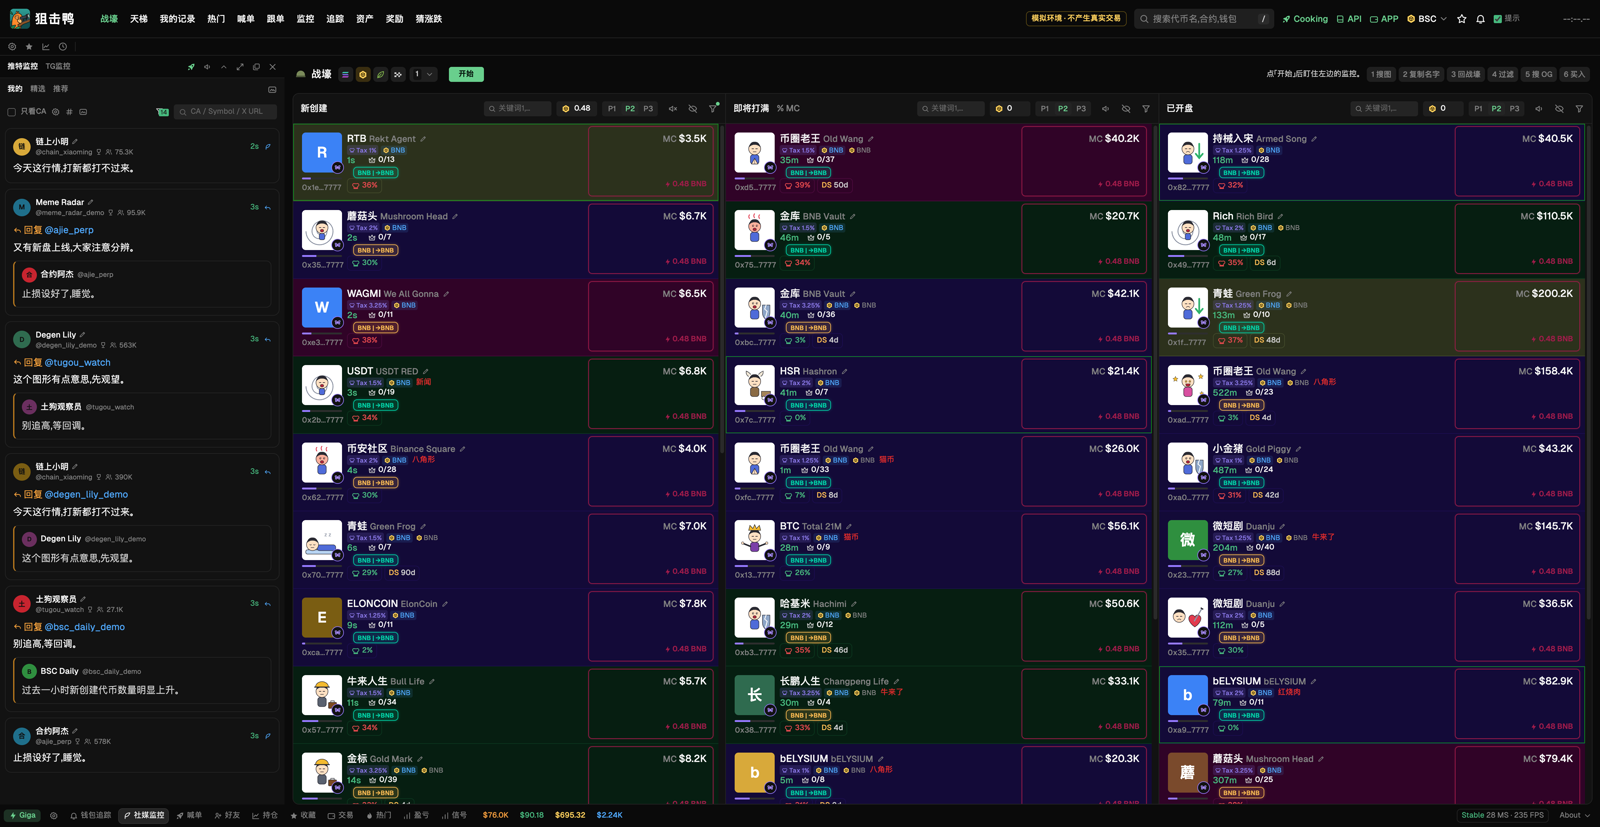
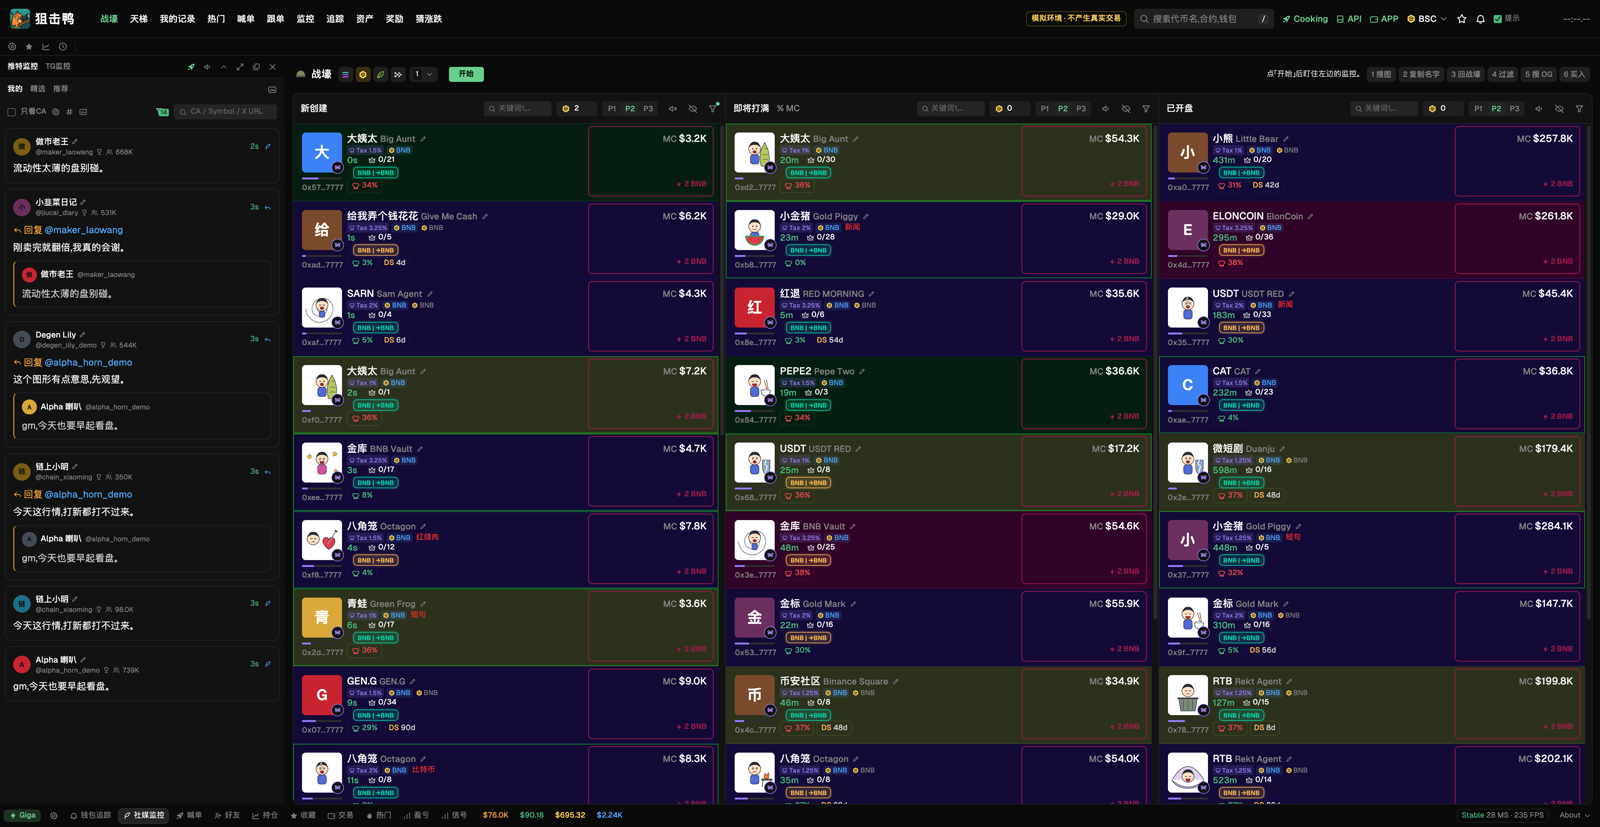
Show a 2 BNB buy amount

diff --git a/public/index.html b/public/index.html
@@ -65,7 +65,7 @@
         <div class="col" id="colNew">
           <div class="colHead"><b>新创建</b><span class="grow"></span>
             <label class="kw"><i data-ic="search"></i><input id="kw" placeholder="关键词1，…" autocomplete="off" spellcheck="false"></label>
-            <span class="amt"><i data-ic="coin"></i>0.48</span>
+            <span class="amt"><i data-ic="coin"></i>2</span>
             <span class="pgroup"><span>P1</span><span class="on">P2</span><span>P3</span></span>
             <i class="hi" data-ic="mute"></i><i class="hi" data-ic="eyeOff"></i>
             <button class="filterBtn" id="openFilter" type="button" title="筛选" aria-label="筛选"><i data-ic="filter"></i><i class="pauseIc" data-ic="pause"></i></button>

diff --git a/public/app.js b/public/app.js
@@ -158,7 +158,7 @@ function cardHtml(t) {
       <span class="quote ${amber ? 'amber' : ''}">BNB | →BNB</span>
       <div class="chips"><span class="cp ${pct > 30 ? 'warn' : ''}">${ICON.hat}${pct}%</span>${seed % 2 ? `<span class="cp ds">DS <u>${seed % 90 + 1}d</u></span>` : ''}</div>
     </div>
-    <div class="zone" data-buy="${esc(t.id)}"><span class="mcv">MC<b>$${esc(t.mc)}K</b></span><span class="bz">${ICON.bolt}0.48 BNB</span></div>
+    <div class="zone" data-buy="${esc(t.id)}"><span class="mcv">MC<b>$${esc(t.mc)}K</b></span><span class="bz">${ICON.bolt}2 BNB</span></div>
   </div>`;
 }
 
